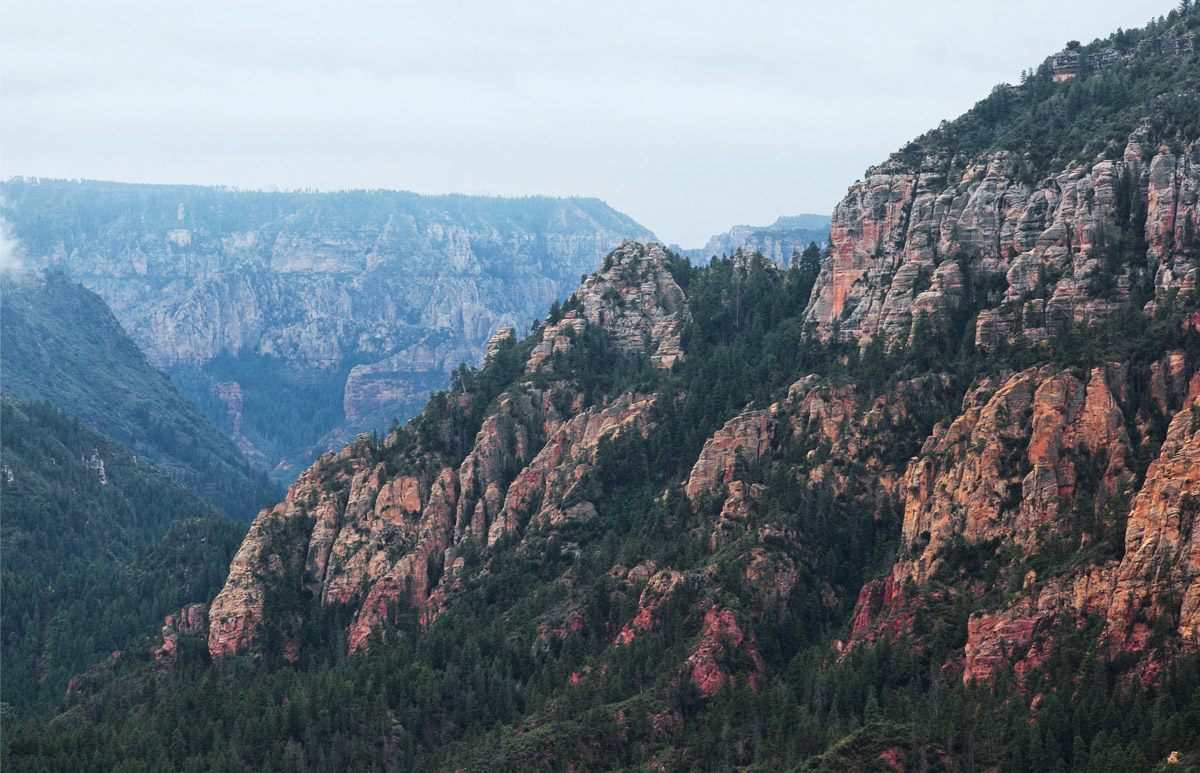
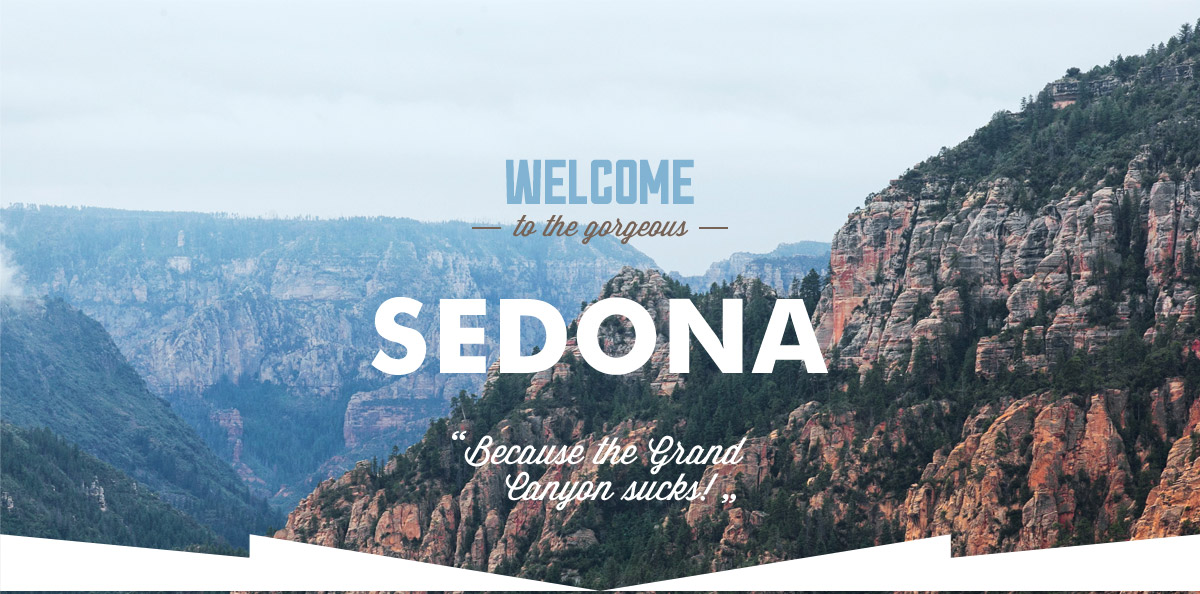
friday 13

diff --git a/index.html b/index.html
@@ -15,43 +15,43 @@
 						<li><a href="#">Фото и Видео</a></li>
 						<li><a class="logo" href="index.html"><img src="img/logo.png" alt="logo"/></a></li>
 						<li><a href="sedona_hotels.html">Гостиницы</a></li>
-						<li><a href="#">Карта штата</a></li>
+						<li><a href="#">Карта  штата</a></li>
 					</ul>
 				</nav>
 			</header>
 			<main>
 				<div class="intro clearfix"> <!-- Блок: главная картинка и текст -->
 				</div> 
-				<div class="content_block clearfix"> <!-- Блок: h3 заголовок -->  
-					<h3 class="content_title">Седона- небольшой городок в Аризоне,<br> заслуживающий большего!</h3> 
-					<div class="content_text">Рассмотрим 5 причин по которым Седона круче, чем Гранд Каньон!</div>
+				<div class="content_block clearfix"> <!-- Блок: h3 заголовок -->
+					<h3 class="content_title">Седона &mdash; небольшой городок в Аризоне,<br>заслуживающий большего!</h3>
+					<div class="content_text">Рассмотрим 5 причин, по которым Седона круче, чем гранд каньон!</div>
 				</div>
 
-				<div class="content_block clearfix"> <!--  Блок: Причина №1 и картинка -->  
+				<div class="content_block clearfix"> <!--  Блок: Причина №1 и картинка -->
 					<div class="features_text other_color"> 
 						<h3 class="content_title" >Настоящий<br> городок</h3>
-						<p>- №1 -</p>
-						<p>Седона не атракцион для туристов,<br> там течет своя жизнь</p>
+						<p>&mdash; №1 &mdash;</p>
+						<p>Седона &mdash; не аттракцион для туристов,<br> там течет своя жизнь</p>
 					</div>
-					<div class="features_picture"> <!--  background в css! --> 
-					</div> 
+					<div class="features_picture"> <!--  background в css! -->
+					</div>
 				</div>
 
 				<div class="content_block clearfix"> <!-- Блок: Жилье Еда Сувениры -->
 					<div class="content_about"> 
 						<div class="icon icon_house"></div>
 						<h3 class="title_about">Жилье</h3>
-						<p>Рекомендуем пожит в настоящем мотеле</p>
+						<p>Рекомендуем пожит в настоящем<br> мотеле, все как в кино!</p>
 					</div>
 					<div class="content_about">
 						<div class="icon icon_food"></div>
 						<h3 class="title_about">Еда</h3>
-						<p>Всегда заказывайте фирменные бургеры,вы не разачаруетесь</p>		
+						<p>Всегда заказывайте фирменный бургер,<br>вы не разачаруетесь</p>
 					</div>
 					<div class="content_about">
 						<div class="icon icon_present"></div>
 						<h3 class="title_about">Сувениры</h3>
-						<p>Не только китайского производства, но и местного</p>		
+						<p>Не только китайского, но и местного<br> производства!</p>
 					</div>
 				</div>
 
@@ -61,7 +61,7 @@
 					<div class="features_text other_color">
 						<h3 class="content_title" >Там есть<br> мост дьявола</h3>
 						<p>- №2 -</p>
-						<p>Да, по нему можно пройти! Если конечно вы осмелитесь</p>
+						<p>Да, по нему можно пройти! Если конечно<br> вы осмелитесь</p>
 					</div>
 				</div>
 
@@ -69,26 +69,26 @@
 					<div class="features_text color_background">
 						<h3 class="content_title" >Небольшая<br> площадь</h3>
 						<p>- №3 -</p>
-						<p>Все достопримечательности находять очень близко </p>
+						<p>Все достопримечательности<br> находять очень близко </p>
 					</div>
 					<div class="features_text color_background">
 						<h3 class="content_title" >Красивая<br> дорора</h3>
 						<p>- №4 -</p>
-						<p>Ехать в Седону из Лас-Вегаса совсем не скучно!</p>
+						<p>Ехать в Седону из Лас-Вегаса совсем<br> не скучно!</p>
 					</div>
 					<div class="features_text color_background">
 						<h3 class="content_title" >Мало<br>туристов</h3>
 						<p>- №5 -</p>
-						<p>Большинство едет в Гранд Каньон и толпиться там</p>
+						<p>Большинство едет в Гранд Каньон и<br> толпиться там</p>
 					</div>
 				</div>
 
-				<div class="content_block"> <!-- Блок: Заинтересовались? -->
-					<h2 class="content_title">Заинтересовались?</h2>
-					<p class="content_text">Укажите предполагаемые даты поездки,<br> и мы покажем вам лучшие предложения гостиниц в Седоне</p>
+				<div class="content_block map_block clearfix"> <!-- Блок: Заинтересовались? -->
+					<h2 class="content_title map_title">Заинтересовались?</h2>
+					<p class="content_text map_text">Укажите предполагаемые даты поездки,<br> и мы покажем вам лучшие предложения гостиниц в Седоне</p>
 					
-					<form class="form_search_hotels"> <!-- pop up дата заезда --> 
-						<div class="content_title form_title">Поиск гостиницы в Седоне</div>
+					<form class="form_search_hotels clearfix"> <!-- pop up дата заезда --> 
+						<div class="content_title form_title clearfix">Поиск гостиницы в Седоне</div>
 							<label for="in">Дата заезда: <input id="in" placeholder="ДД.ММ.ГГГГ" type="text"></label>
 							<label for="out">Дата выезда: <input id="out" placeholder="ДД.ММ.ГГГГ" type="text"></label>
 							<label for="adults">Взрослые: <input id="adults" type="text"></label>
@@ -117,6 +117,6 @@
 			</footer>
 
 
-		</div><!-- container div -->
+		</div>container div
 	</body>
 </html>

diff --git a/css/style.css b/css/style.css
@@ -1,13 +1,14 @@
 html, body {
-	padding: 0;
-	margin: 0;
-	font-size: 14px;
-	font-weight: 400;
-	line-height: 21px;
-	font-family: "PTsans", Arial,sans-serif;
 	color: #333333;
 	text-transform: uppercase;
-	background-color: #f2f2f2;}
+	padding: 0;
+	margin: 0px;
+	font-weight: 400;
+	background-color: #f2f2f2;
+	font-size: 14px;
+	line-height: 21px;
+	font-family: "PT sans", Arial,sans-serif;
+}
 
 .main_navigation ul {
 	list-style: none;
@@ -29,19 +30,22 @@ html, body {
 	font-size: 30px;
 }
 .content_block h3{
-	margin: 0;
 	padding: 0;
+	margin: 0;
 }
 .content_block .content_title {
 	font-weight: bold;
 	font-size: 21px;
-	line-height: 26px;
+	padding-top: 60px;
 	color: #000000;
-	padding-top: 62px;
+	margin-bottom: 31px;
+	line-height: 26px;
 }
 .features_text .content_title {
 	line-height: 21px;
 	color: inherit;
+	padding-top: 55px;
+	margin-bottom: 25px;
 }
 .features_text.other_color{
 	background-color: #81b3d2;
@@ -56,8 +60,6 @@ html, body {
 	background-color: white;
 }
 /*главное меню*/
-.main_header {
-}
 
 .main_navigation ul {
 	position: relative;
@@ -67,18 +69,21 @@ html, body {
 }
 
 .logo {
-	margin-top: -20px;
+	margin-top: -15px;
 	position: absolute;
 	display: block;
-	padding-left: 51px;
+	padding-left: 55px;
+	padding-right: 0px;
 }
 
 .main_navigation li {
-	width: 240px;
-	padding-bottom: 10px;
 	float: left;
+	padding-top: 14px;
+	padding-bottom: 17px;
+	padding-right: 0px;
+	min-width: 240px;
 	text-align: center;
-	padding-top: 20px;
+	outline: 1px solid yellow;
 }
 
 .main_navigation li:last-child {
@@ -89,57 +94,55 @@ html, body {
 	float: right;
 }
 .main_navigation a {
+	font-size: 14px;
 	line-height: 26px;
 	text-decoration: none;
 	text-transform: uppercase;
+	font-weight: bold;
+}
+
+.main_navigation a:visited {
+	line-height: 26px;
 	font-size: 14px;
+	text-decoration: none;
+	text-transform: uppercase;
+	color: black;
 	font-weight: bold;
 
 }
-.main_navigation a:visited {
-	line-height: 26px;
-	text-decoration: none;
-	text-transform: uppercase;
-	font-size: 14px;
-	color: black;
-}
-
 
 .intro {
 	height: 507px;
-	background-image: url("../img/intro3.jpg");
-	background-position: 0 95%;
+	background-image: url("../img/intro.jpg");
+	background-position: -2px 95%;
 	background-repeat: no-repeat;
 }
-.zigzag {
-	background-color: white;
-}
 .content_block {
-	text-align:center;
 	background-color:white;
+	text-align:center;
 }
-.blue_block {
-	background-color: #81b3d2;
-	color: #FFFFFF;
-}
+
 .content_title {
-	padding-top: 50px;
 	padding-bottom: 20px;
-	color: #FFF; 
+	color: #FFF;
+	padding-top: 50px; 
 }
 .content_text {
 	margin-bottom: 52px;
-	padding-top: 32px;
 }
 .features_text {
 	width: 400px;
-	min-height: 256px;
 	text-align: center;
 	float: left;
 	color: #000000;
 	background-color: #FFFFFF;
+	min-height: 256px;
 }
-
+.content_block p {
+	margin: 0;
+	padding: 0;
+	margin-bottom: 21px;
+}
 .features_picture {
 	float:right;
 	width: 800px;
@@ -154,13 +157,17 @@ html, body {
 	float:left;
 }
 .content_about .title_about {
-	padding-top: 160px;
-	margin-bottom: 25px;
+	padding-top: 162px;
+	margin-bottom: 22px;
 	font-size: 21px;
 }
-.content_about>p {
-	padding-top: 30px
-	margin-bottom: 61px;
+.content_about p {
+	margin: 0;
+	padding: 0;
+}
+.content_about p {
+	margin-bottom: 80px;
+	padding-top: 0px;
 }
 
 .icon {
@@ -170,20 +177,22 @@ html, body {
 	top: 50px;
 	left: 160px;
 	height: 80px;
+	background-position: 2px 11px;
 	background-color: #FFF;
 	background-repeat: no-repeat;
-	background-position: 0 0;
 }
 
 .icon_house {
-	background-image: url(../img/icon_house.svg);
+	background-image: url("../img/icon_house.png");
 
 }
 .icon.icon_food {
-	background-image: url(../img/icon_food.svg);
+	background-image: url("../img/icon_food.png");
+	background-position: 3px 12px;
 }
 .icon.icon_present {
-	background-image: url(../img/icon_present.svg);
+	background-image: url("../img/icon_present.png");
+	background-position: 7px 7px;
 }
 
 
@@ -242,35 +251,49 @@ footer {
 	outline: 1px solid cyan;
 }
 /*Поп-ап форма */
+.map_block {
+
+}
+.content_block .map_title {
+	font-size: 30px;
+	font-weight: bold;
+	line-height: 24px;
+	margin-bottom: 32px;
+}
+.content_block .map_text {
+	font-size: 14px;
+	line-height: 26px;
+	font-weight: 400;
+	padding: 0;
+	margin: 0;
+	padding-bottom: 52px;
+}
+.form_search_hotels {
+	float:left;
+	outline: 1px solid cyan;
+	height: 395px;
+	width: 568px;
+	margin-left: 316px;
+}
 .form_search_hotels .form_title {
+	display: block;
 	background-color: #766357;
-	min-height: 85px;
+	padding-top: 32px;
+	padding-bottom: 32px;
+	margin-bottom: 55px;
 }
 
-.form_search_hotels {
-	width: 570px;
-	height: 395px;
-	outline: 1px solid cyan;
-}
-.form_search_hotels {
-	width: 570px;
-	outline: 1px solid cyan;
-}
-.form_search_hotels label:nth-child(3) {
-	width: 200px;
-	outline: 1px solid cyan;
-}
 
 /*Страница отели*/
 .main_hotel {
-	font-family:"PTsans", Arial,sans-serif;
+	font-family:"PT sans", Arial,sans-serif;
 	font-weight:400;
 	margin:0;
 	font-size: 14px;
 	padding:0;
 }
 form.filters {
-	font-family:"PTsans", Arial,sans-serif;
+	font-family:"PT sans", Arial,sans-serif;
 	font-weight:400;
 	padding:0;
 	margin:0;
@@ -411,3 +434,6 @@ form ul {
 	margin-bottom: 30px;
 }
 
+.container {
+	padding: 0 0px;
+}
